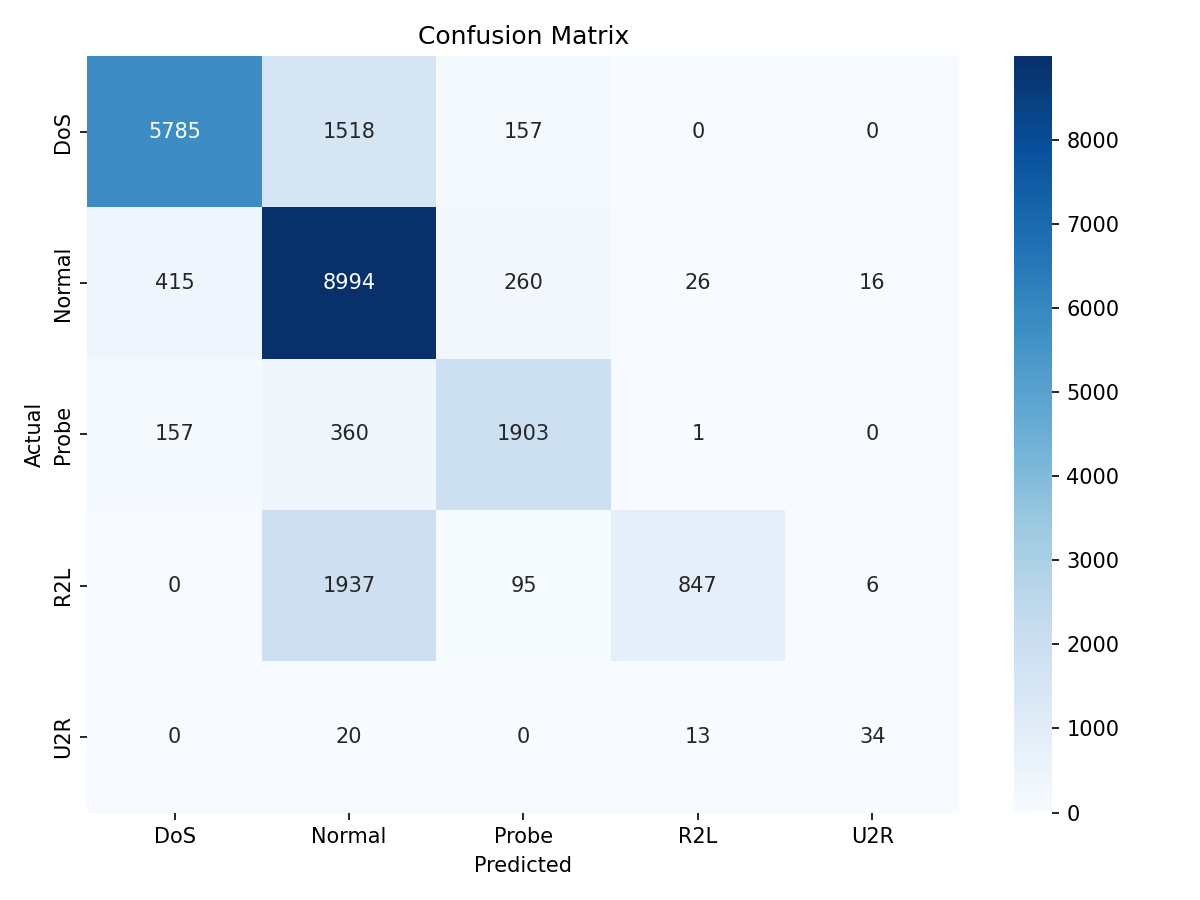
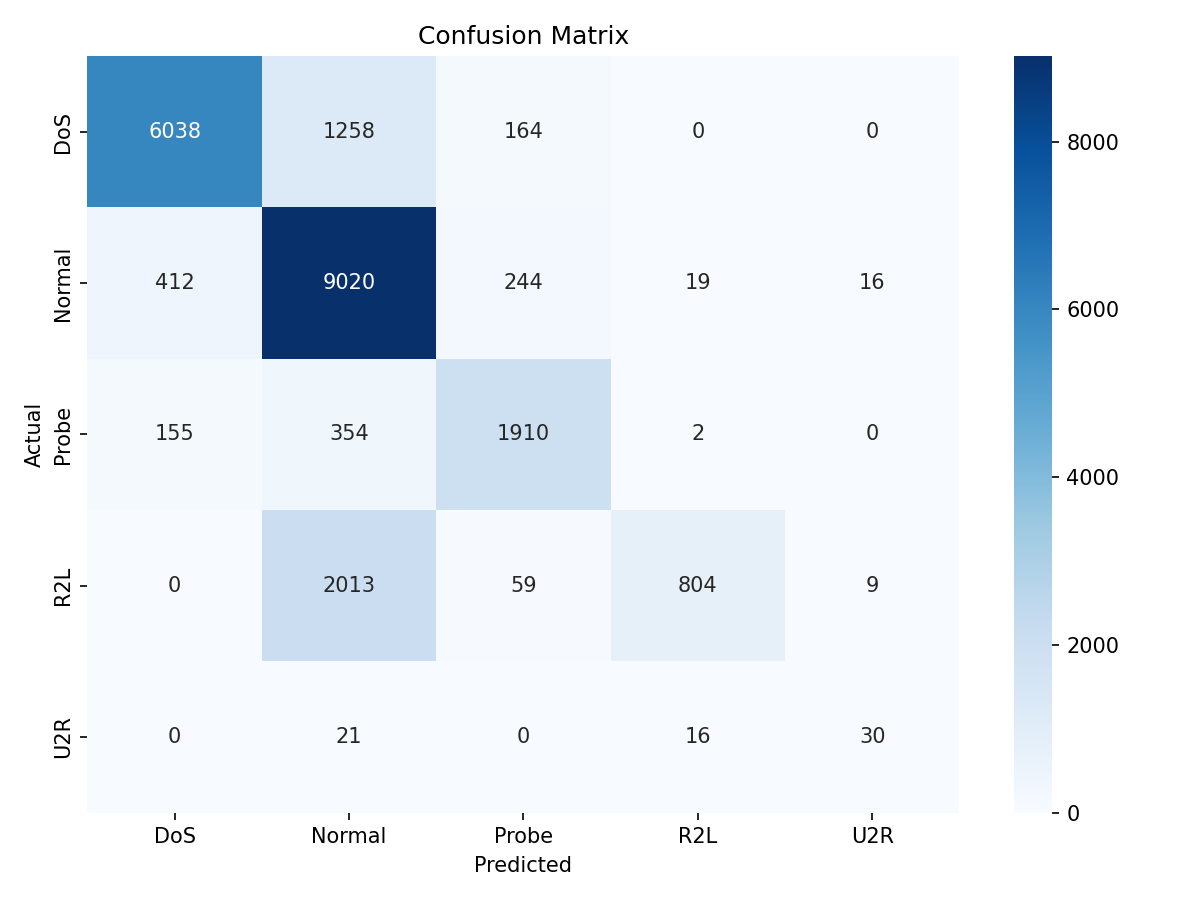
Repaired some syntex error

diff --git a/experiments/16_keras_neural_network-experimental.py b/experiments/16_keras_neural_network-experimental.py
@@ -100,6 +100,14 @@ def make_class_weights(y_encoded, mode):
             3: 6.0,    # R2L
             4: 30.0    # U2R
         }
+    if mode == "best":
+        return {
+            0: 1.0,
+            1: 0.67,
+            2: 2.22,
+            3: 19.95,
+            4: 60.0
+        }
 
     raise ValueError(f"Unknown class weight mode: {mode}")
 
@@ -354,13 +362,7 @@ def main():
             "batch_size": 512,
             "epochs": 180,
             "patience": 12,
-            "class_weight_mode": {
-                0: 1.0,
-                1: 0.67,
-                2: 2.22,
-                3: 19.95,
-                4: 60.0
-            }
+            "class_weight_mode": "best"
         }
     ]
 

diff --git a/experiments/results.md b/experiments/results.md
@@ -49,7 +49,7 @@
 | No. | File | Model / Approach | Purpose |
 | --- | --- | --- | --- |
 
-| 34 | Change Hidden to 128 -> 64 -> 32
+| 34 | Change Hidden to 128 -> 64 -> 32 | Did it no significant changes |
 | 16 | Try best results implemented into 16_keras_neural_network to see does NN introduces better scores | 
 
 ## Current best model
